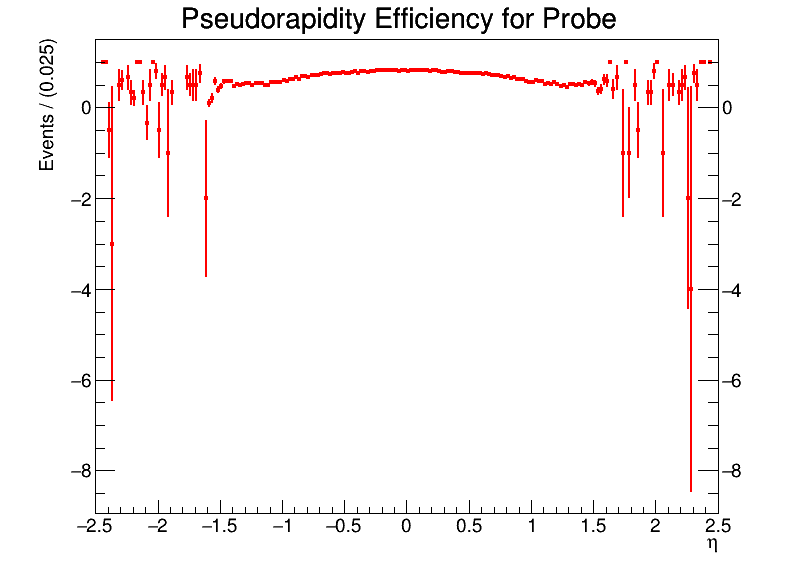
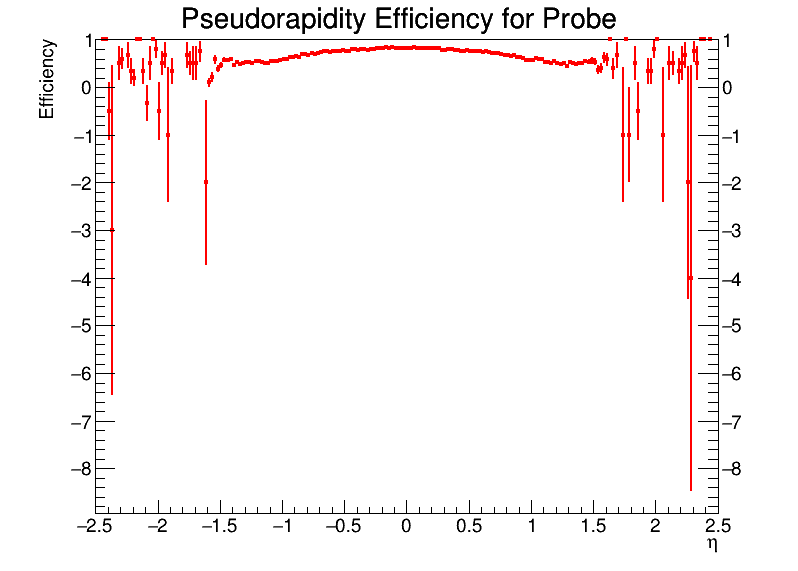
Add files via upload

diff --git a/step2/smallboss.C b/step2/smallboss.C
@@ -41,15 +41,20 @@ void efficiency()
 	TH1D *hPhiSigBack 	= (TH1D*)generatedFile->Get("histograms/ProbeMuon_PhiSigBack");
 	TH1D *hPhiSig 		= (TH1D*)generatedFile->Get("histograms/ProbeMuon_PhiSig");
 
+
+
 	//Efficiency calculation for Pt
 	TH1D* hPtEff  = (TH1D*) hPtSig->Clone("ProbePt_Efficiency");
 	hPtEff->SetTitle("Transversal Momentum Efficiency for Probe");
+	hPtEff->GetYaxis()->SetTitle("Efficiency");
 	hPtEff->Divide(hPtSig, hPtSigBack, 1.0, 1.0, "B");
 	hPtEff->SetLineWidth(2);
 	hPtEff->SetLineColor(kRed);
 	hPtEff->SetMarkerStyle(21);
 	hPtEff->SetMarkerSize(0.5);
 	hPtEff->SetMarkerColor(kRed);
+	hPtEff->SetMaximum(1);
+	//hPtEff->SetMinimum(0);
 	TCanvas *c1 = new TCanvas("ProbePt_Efficiency","Probe Pt Efficiency", 800, 600);
 	c1->SetTopMargin(0.07);
 	c1->SetLeftMargin(0.12);
@@ -59,12 +64,15 @@ void efficiency()
 	//Efficiency calculation for Eta
 	TH1D* hEtaEff  = (TH1D*) hEtaSig->Clone("ProbeEta_Efficiency");
 	hEtaEff->SetTitle("Pseudorapidity Efficiency for Probe");
+	hEtaEff->GetYaxis()->SetTitle("Efficiency");
 	hEtaEff->Divide(hEtaSig, hEtaSigBack, 1.0, 1.0, "B");
 	hEtaEff->SetLineWidth(2);
 	hEtaEff->SetLineColor(kRed);
 	hEtaEff->SetMarkerStyle(21);
 	hEtaEff->SetMarkerSize(0.5);
 	hEtaEff->SetMarkerColor(kRed);
+	hEtaEff->SetMaximum(1);
+	//hEtaEff->SetMinimum(0);
 	TCanvas *c2 = new TCanvas("ProbeEta_Efficiency","Probe Eta Efficiency", 800, 600);
 	c2->SetTopMargin(0.07);
 	c2->SetLeftMargin(0.12);
@@ -74,17 +82,22 @@ void efficiency()
 	//Efficiency calculation for Phi
 	TH1D* hPhiEff  = (TH1D*) hPhiSig->Clone("ProbePhi_Efficiency");
 	hPhiEff->SetTitle("Phi Efficiency for Probe");
+	hPhiEff->GetYaxis()->SetTitle("Efficiency");
 	hPhiEff->Divide(hPhiSig, hPhiSigBack, 1.0, 1.0, "B");
 	hPhiEff->SetLineWidth(2);
 	hPhiEff->SetLineColor(kRed);
 	hPhiEff->SetMarkerStyle(21);
 	hPhiEff->SetMarkerSize(0.5);
 	hPhiEff->SetMarkerColor(kRed);
+	hPhiEff->SetMaximum(1);
+	hPhiEff->SetMinimum(0);
 	TCanvas *c3 = new TCanvas("ProbePhi_Efficiency","Probe Phi Efficiency", 800, 600);
 	c3->SetTopMargin(0.07);
 	c3->SetLeftMargin(0.12);
 	c3->SetTicky(2);
 	hPhiEff->Draw();
+
+
 
 	//Not show frame
 	gStyle->SetOptStat(0);
